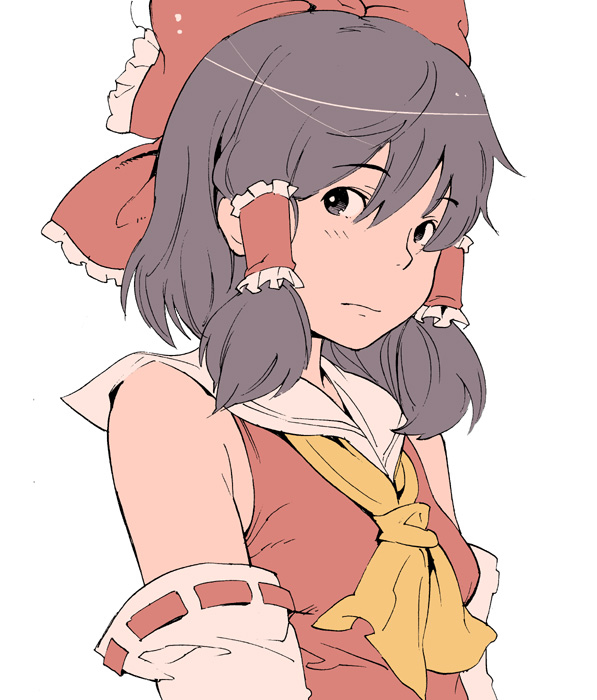
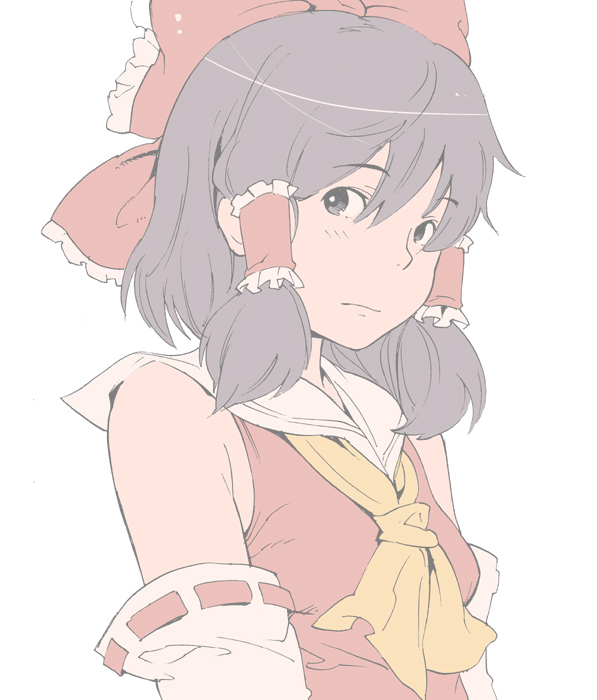
adjusted background.png so that it's 50 % transparent without manually fiddling around with it in code

diff --git a/PorterDuffCompositing/Form1.cs b/PorterDuffCompositing/Form1.cs
@@ -32,7 +32,7 @@ namespace PorterDuffCompositing
 
 			Debug.Assert(this.background.Size.Equals(this.foreground.Size));
 
-			SetAlpha(this.background, 120);
+			//SetAlpha(this.background, 120);
 
 			foreach (var prop in typeof(PorterDuffCompositingMode).GetProperties(BindingFlags.Public | BindingFlags.Static).Where(x => x.PropertyType == typeof(PorterDuffCompositingMode)))
 			{
@@ -61,18 +61,18 @@ namespace PorterDuffCompositing
 			}
 		}
 
-		private static void SetAlpha(Bitmap bitmap, int alpha)
-		{
-			for (int y = 0; y < bitmap.Height; ++y)
-			{
-				for (int x = 0; x < bitmap.Width; ++x)
-				{
-					var tmp = bitmap.GetPixel(x, y);
-					tmp = Color.FromArgb((int)(alpha * tmp.A / 255.0), tmp.R, tmp.G, tmp.B);
-					bitmap.SetPixel(x, y, tmp);
-				}
-			}
-		}
+		//private static void SetAlpha(Bitmap bitmap, int alpha)
+		//{
+		//	for (int y = 0; y < bitmap.Height; ++y)
+		//	{
+		//		for (int x = 0; x < bitmap.Width; ++x)
+		//		{
+		//			var tmp = bitmap.GetPixel(x, y);
+		//			tmp = Color.FromArgb((int)(alpha * tmp.A / 255.0), tmp.R, tmp.G, tmp.B);
+		//			bitmap.SetPixel(x, y, tmp);
+		//		}
+		//	}
+		//}
 
 		private static Bitmap MakeBitmap(string file, Size? size)
 		{
